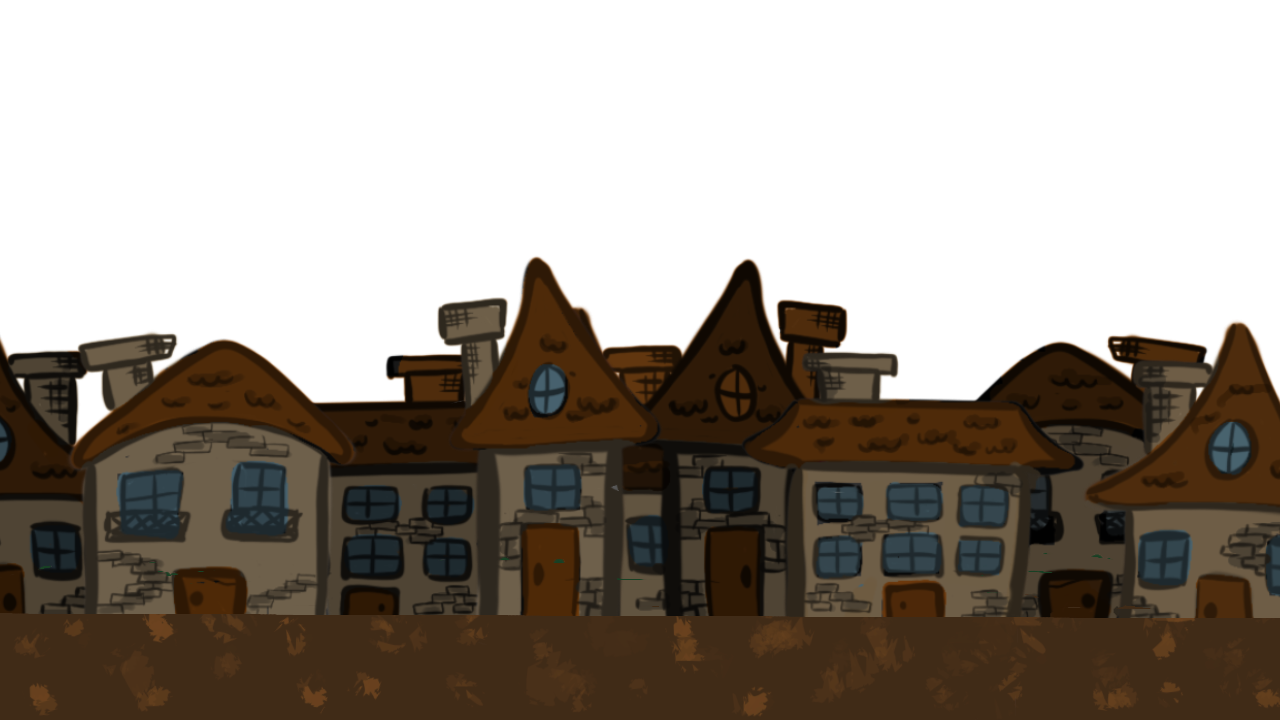
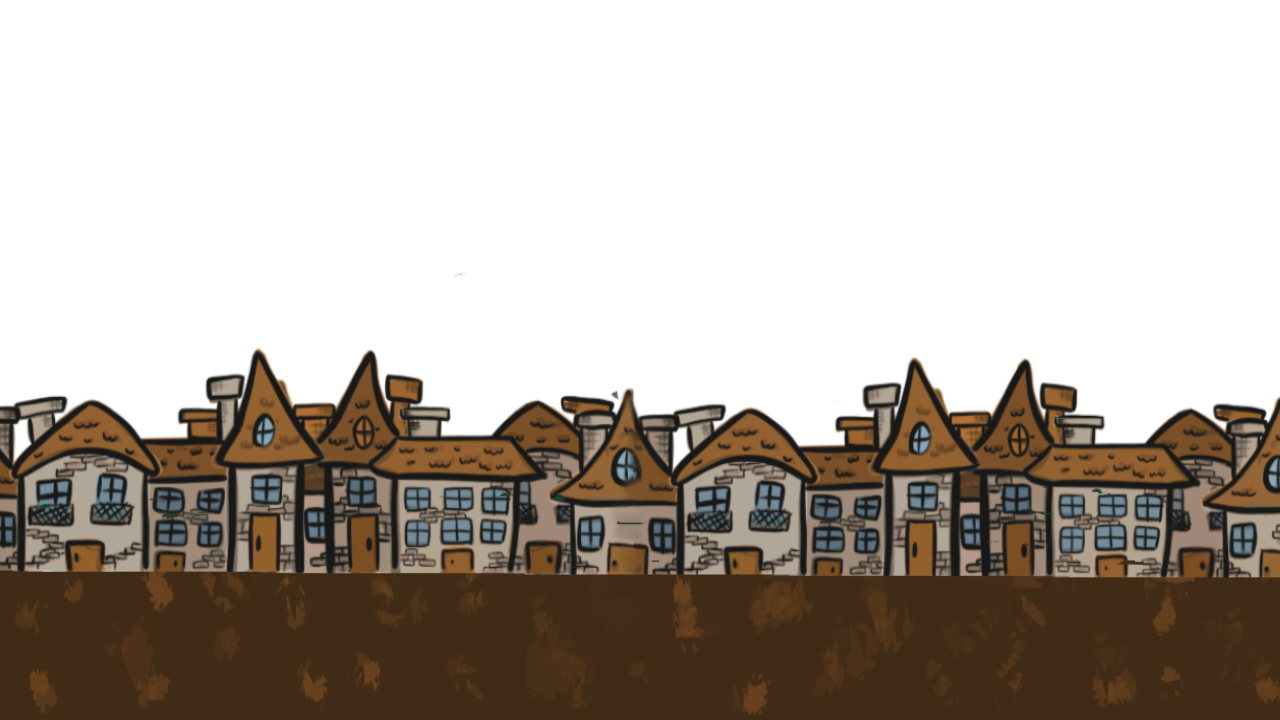
Niveles Mejorados y agregue el keeper1 más grande

diff --git a/core/src/itesm/mx/TestNivel2.java b/core/src/itesm/mx/TestNivel2.java
@@ -57,12 +57,12 @@ public class TestNivel2 extends Pantalla implements Screen {
         vidas = new LinkedList<Sprite>();
         timerEnemigos = 0;
         listaItems = new LinkedList<Item>();
-        crearFondo("Nivel2/FondoNivel2.png");
+        crearFondo("Nivel2/Nivel2.png");
         enemigos = new LinkedList<Wrumper>();
         flechas = new LinkedList<Flecha>();
         Gdx.input.setInputProcessor(new ProcesadorEntradaJuego());
         testE=new Elya();
-        testE.setPos(40, ALTO/2-210);
+        testE.setPos(40, ALTO/2-220);
         stage = new Stage(vista);
         crearBotonDer();
         crearBotonIzq();

diff --git a/core/src/itesm/mx/PantallaCargando.java b/core/src/itesm/mx/PantallaCargando.java
@@ -32,7 +32,7 @@ public class PantallaCargando extends Pantalla implements Screen{
         //Vista
         vista = new StretchViewport(ANCHO, ALTO);
         batch = new SpriteBatch();
-        crearFondo("Pantallas/Pantalla_Cargando.PNG");
+        crearFondo("Pantallas/Pantalla_CargandoSinElya.PNG");
 //
     }
 
